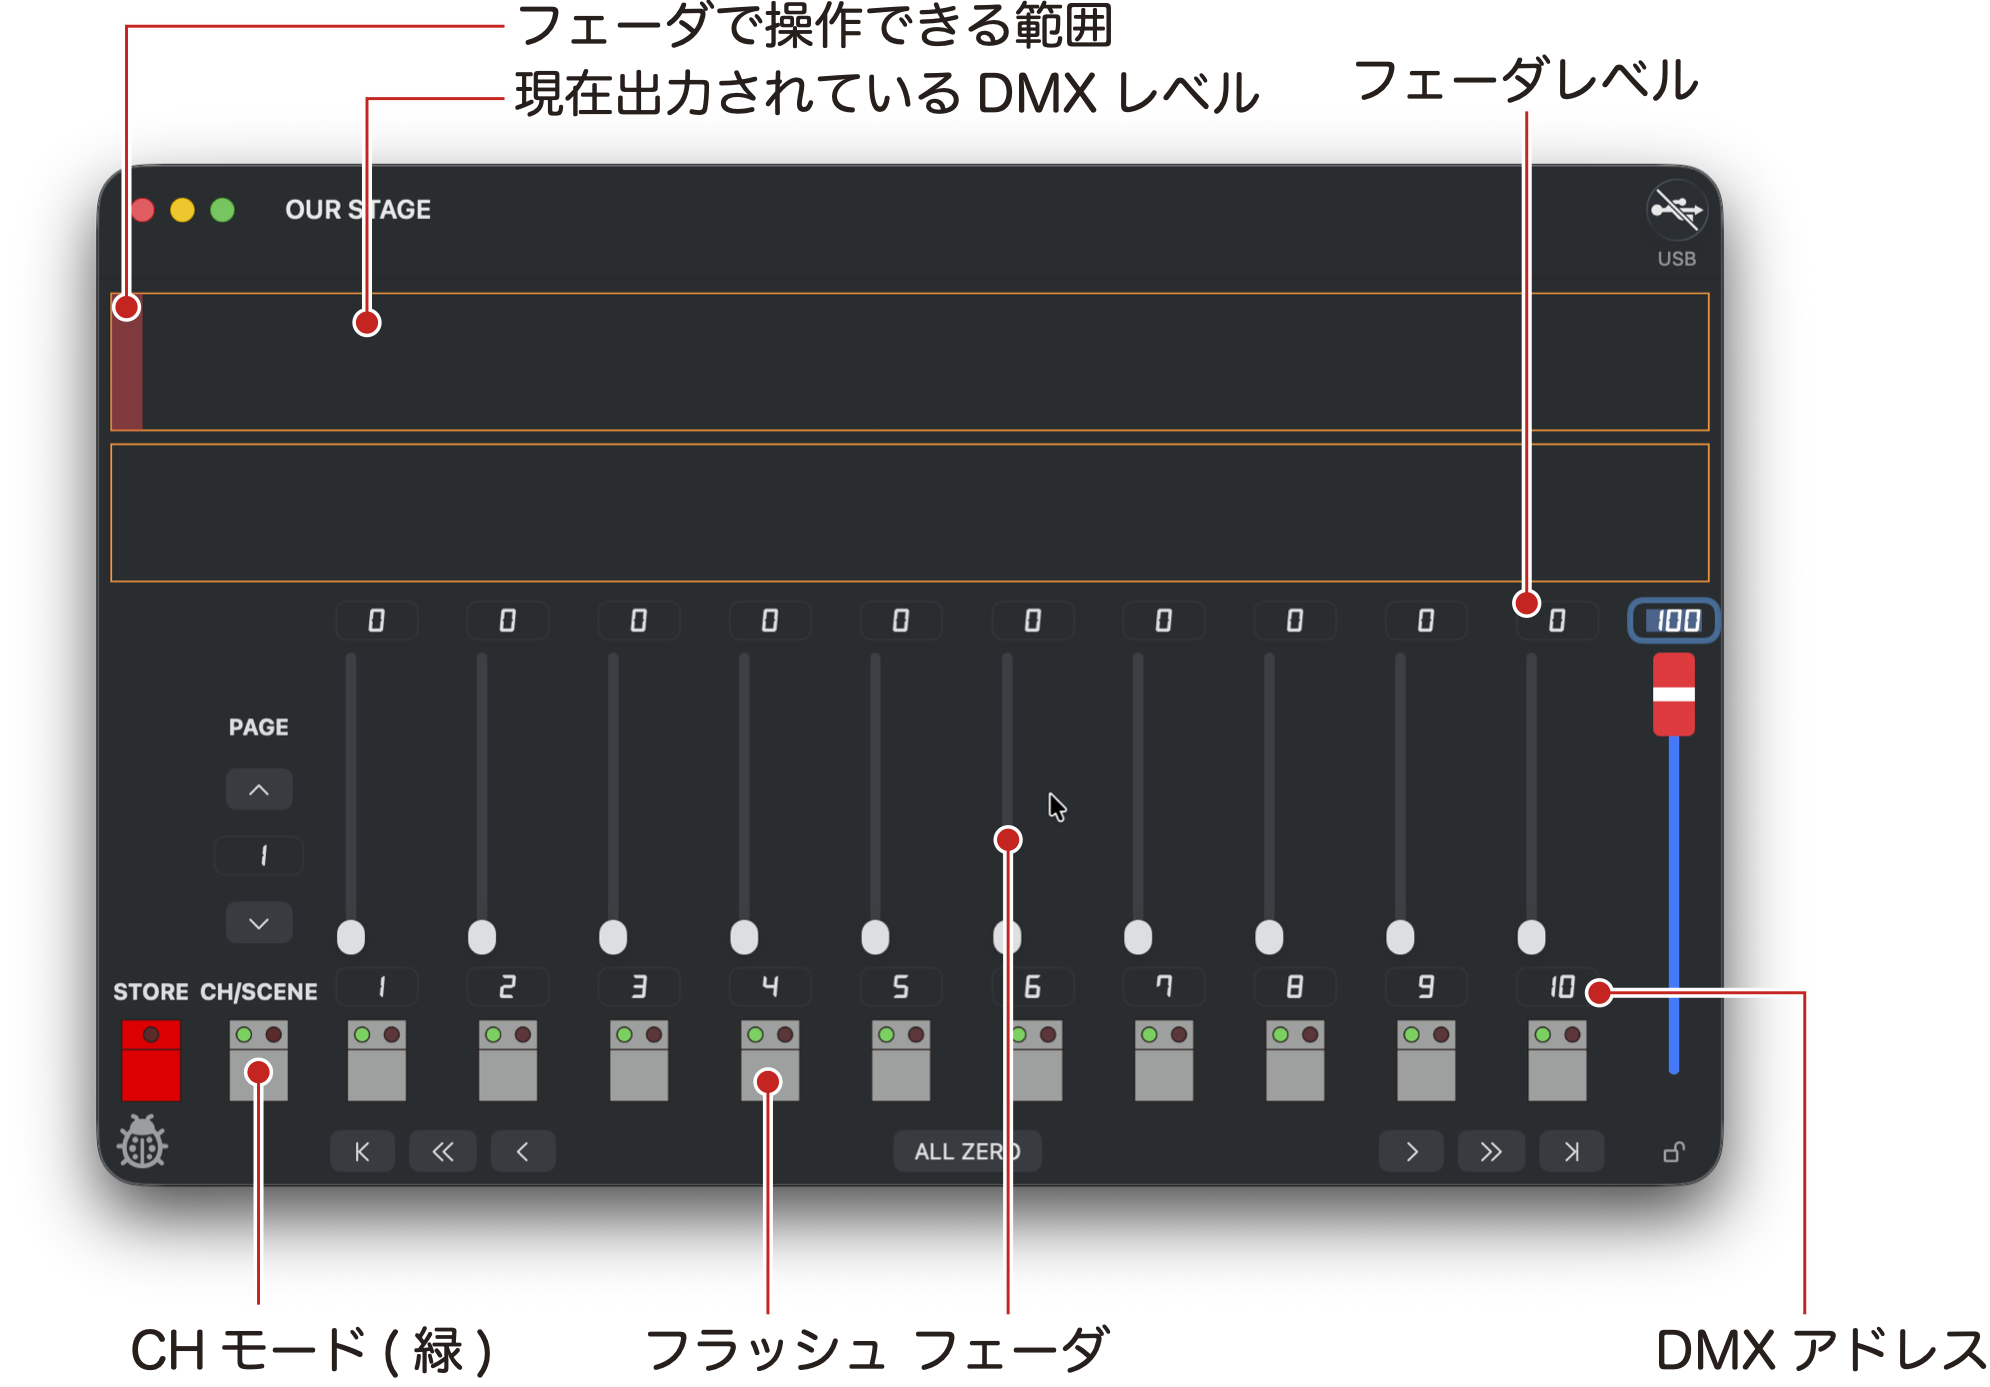
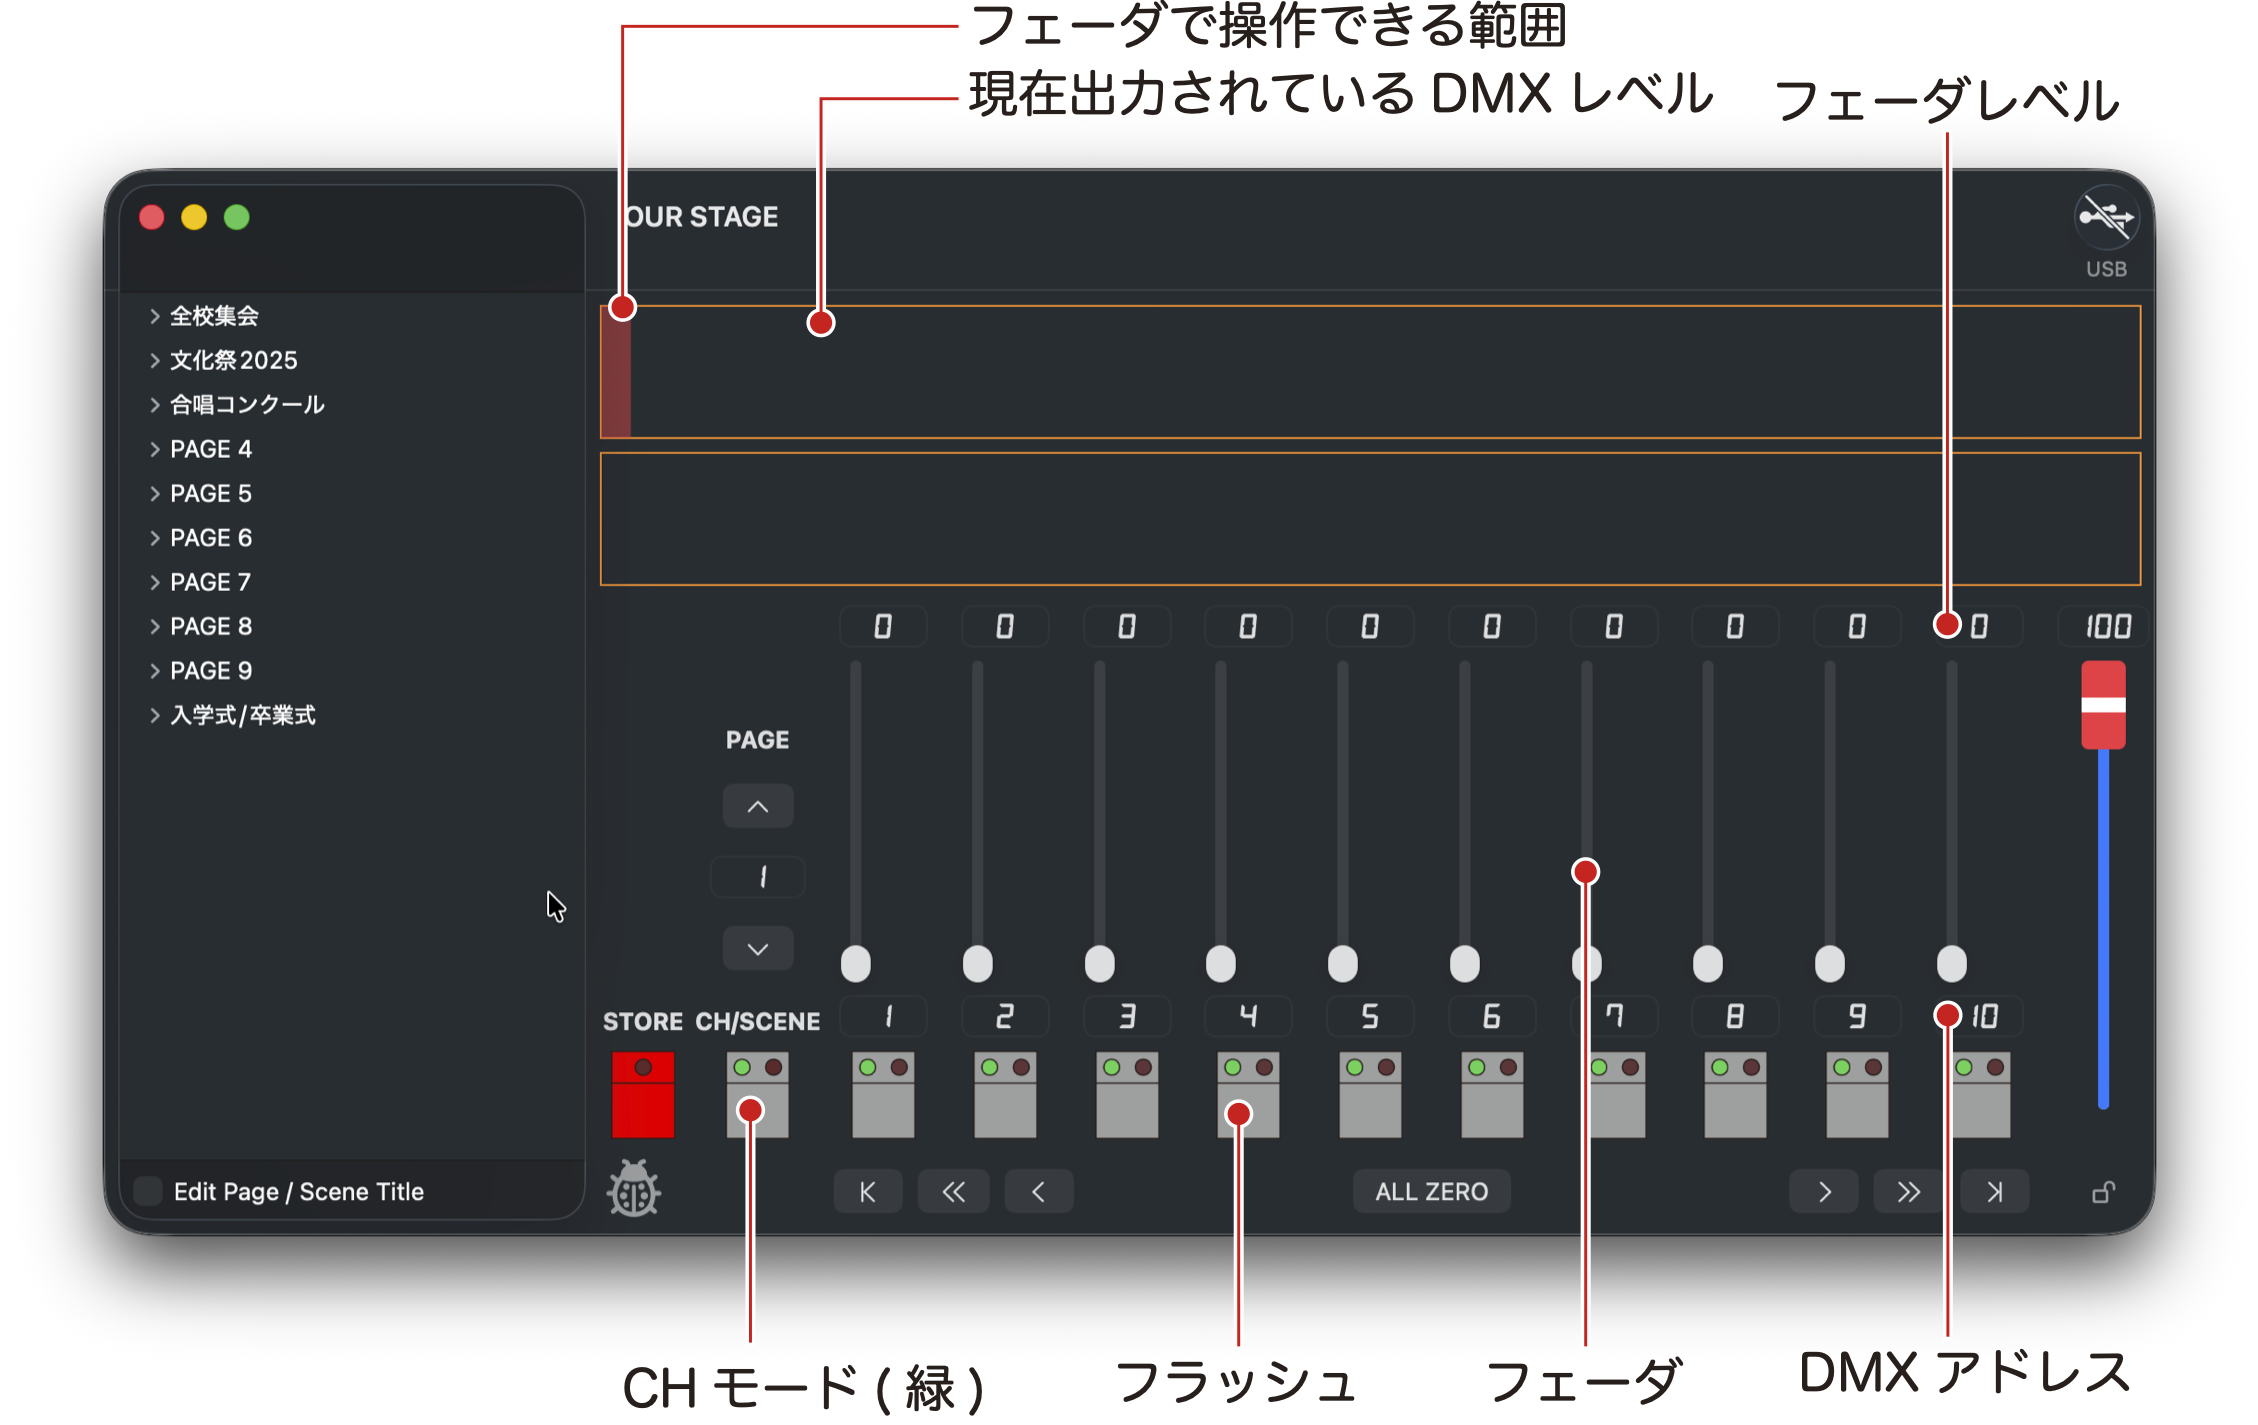
Update README.md

diff --git a/README.md b/README.md
@@ -13,21 +13,103 @@
 - 配布形式：Appleのノータリゼーションを受けたカスタマーダイレクト配布
 
 # CHモード
-このモードではフェーダであかりを作ることができます。
+このモードではフェーダであかりを作ることができます。\
+フェーダを操作して出力レベルを決めます。\
+CH/SCENEスイッチを押してCHモード(緑)にします
 
-<img width="497" height="346" alt="image" src="images/200.png" />
+<img width="564" height="356" alt="image" src="images/200.png" />
 
-フェーダを操作してレベルを決めます。\
-レベルを操作するDMXアドレスはウィンドウ上部のバー表示領域をクリック、またはドラッグ&ドロップして選びます。\
+## 編集CHの指定
+レベルを操作するDMXアドレスはウィンドウ上部のバー表示領域をクリック、またはドラッグして選びます。\
 DMXアドレスは連続した10チャンネルを一度に編集可能で、フェーダ下のフィールドにDMXアドレスが表示されます。
+
+<img width="334" height="364" alt="image" src="images/300.png" />
 
 ## フェーダのキャッチ
 フェーダは物理的な位置を手動で決めるため、フェーダの位置とレベル出力が一致していない時があります。\
 その場合、フェーダの位置がレベル出力と一致した時にレベル変更ができるようになり、この状態を**キャッチした**と表現します。
 
 フェーダの物理的な位置とレベルが一致していない場合、フラッシュスイッチの緑LEDが消灯しています。\
-また、フェーダ横のレベルメータの色も薄くなっています。\
-この状態の時はフェーダを右側のレベルメータが示す位置まで動かすことでキャッチします。
+また、フェーダ横のレベルメータの色も薄くなっています。
 
-<img width="200" height="346" alt="image" src="images/300.png" />
+<img width="200" height="346" alt="image" src="images/400.png" />
 
+この状態の時はフェーダを右側のレベルメータが示す位置まで動かすことでキャッチし、あかりを変更することができます
+
+<img width="388" height="462" alt="image" src="images/500.png" />
+
+## あかりの状態をシーンとして保存する
+1. STOREスイッチを押す
+2. PAGEスイッチで保存するページを選ぶ
+3. 保存したいシーン番号に対応したフラッシュスイッチを押す
+
+STOREスイッチを押した際、シーンが保存されていない場合はフラッシュスイッチの赤いLEDが点滅します。
+シーンが保存されていたとしても、そのシーン番号に対応したスイッチを押せば保存可能です。
+
+- ページ：1〜10
+- シーン：各ページ1〜10
+
+合計100シーンを保存することができます。
+
+<img width="698" height="334" alt="image" src="images/600.png" />
+
+## フラッシュスイッチ
+フラッシュスイッチを押すと、対応したレベルが押している間だけ100%出力します。
+あかりの確認で使用できます
+
+# シーンの再生
+ページ、シーンを指定して合計100シーンを再生することができます。\
+シーンの再生は手動でフェーダを0%→100%へ操作します。\
+この操作をしている時、直前に再生していたシーンはクロスフェードで0%になります。
+
+## シーン指定とフェーダ操作
+1. CH/SCENEスイッチを押してSCENEモード(赤)にする
+2. PAGEスイッチで呼び出すシーンのあるページを選ぶ
+3. 再生したいシーン番号に対応したフラッシュスイッチを押す
+
+<img width="698" height="334" alt="image" src="images/700.png" />
+
+ここで、選択したシーンはフラッシュスイッチの赤いLEDが点滅します。\
+シーン選択を間違えた場合は、正しいフラッシュスイッチを再度押します。\
+シーンに記憶されているレベルは、水色のバーでウィンドウ上部に表示されます。
+
+<img width="564" height="354" alt="image" src="images/800.png" />
+
+
+フェーダを0%→100%へ操作すると、シーンがクロスフェードで再生されます。\
+シーン転換が完了すると、赤いLEDが点滅から点灯に変わります。
+
+もしシーンを選択した際にフェーダが0%に位置にない場合、フラッシュスイッチの緑色のLEDが消灯しています。\
+CHモードの時と同じで、フラッシュスイッチの緑色LEDが点灯していない時は、フェーダを操作してもあかりを出したり、シーンを再生することができません。\
+シーンを再生するときはフェーダをまず0%に戻すことで、シーンの再生ができます。
+
+続けてシーンを再生する場合は、次に再生したいシーンをフラッシュスイッチで選択します。\
+ページを変更することも可能です。
+
+## サイドバーからシーン選択
+サイドバーからもシーン選択ができます。\
+サイドバーのシーンはタイトルを編集することができます。\
+サイドバーのシーンをクリックすると、ウィンドウ右側の操作パネルのページが切り替わり、シーンに対応したフラッシュスイッチの赤いLEDが点滅します。\
+フラッシュスイッチでシーンを選択した時と同じように、フェーダを操作することでシーンを再生できます。
+
+## フラッシュスイッチの効果的な使い方
+シーンを再生している時、現在のあかりの中に一時的に特定のあかりを追加したい時があります。\
+例えば、暗いシーンの中で雷のLEDライトを光らせるなどの用途があります。\
+この時は、
+
+1. シーンの再生をして、フェーダを100%まで操作して転換を終わらる
+2. CH/SCENEスイッチを押してCHモードにする(あかりは変化しない)
+3. 操作したいCHをウィンドウ上部のレベル表示バーをクリックし、フェーダ上にアサインする
+4. フラッシュスイッチを操作する
+
+とすることで、シーンに変化を加えることができます。
+
+# サイドバー
+デフォルトではシーンのページ番号、シーン番号のリストが表示されます。
+また、ページ、シーンにタイトルをつけることができます。
+
+
+# デモ動画
+こちらにデモ動画を掲載しています。\
+簡単な操作方法などがお分かりいただけると思います。\
+[OUR STAGEデモ動画を見る](https://youtu.be/zNq_4w6kR58)
